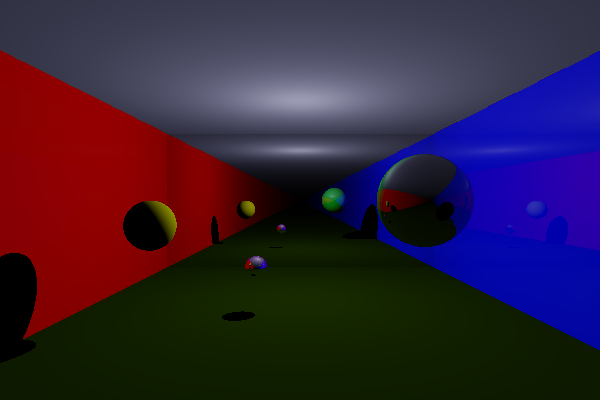
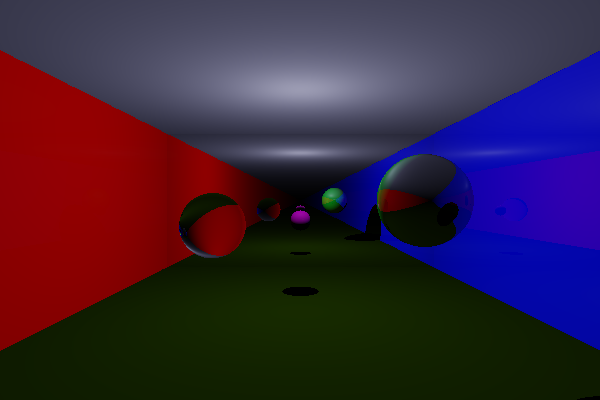
Add refraction
...in a hacky way. Without attenuation or total internal reflection or Fresnel equations

diff --git a/src/smoke_and_mirrors.cpp b/src/smoke_and_mirrors.cpp
@@ -19,7 +19,7 @@ int main() {
 
 	auto mainBegin = std::chrono::system_clock::now();
 
-	int maxNumberOfRays = 4;
+	int maxNumberOfRays = 7;
 	const int resolution = 200;
 	const int aspectRatioWidth = 3;
 	const int aspectRatioHeight = 2;
@@ -55,7 +55,7 @@ int main() {
 	Plane leftRedWall = Plane(Vector3(1, 0, 0), Vector3(-10, 0, 0), { 0.7f, 0.0f, 0.0f }, {0.01f, 0.01f, 0.01f});
 	//Plane leftMirrorWall = Plane(Vector3(1, 0, 0), Vector3(-10, 0, 0), { 0.0f, 0.0f, 0.0f }, { 0.4f, 0.4f, 0.4f }, true);
 
-	Plane backMirrorWall = Plane(Vector3(0, 0, 1), Vector3(1, 0, -30), { 0.0f, 0.0f, 0 }, { 0.8f, 0.8f, 0.8f }, true);
+	Plane backMirrorWall = Plane(Vector3(0, 0, 1), Vector3(1, 0, -30), { 0.0f, 0.0f, 0 }, { 0.9f, 0.9f, 0.9f }, true);
 
 	Plane backdarkGreenWall = Plane(Vector3(0, 0, 1), Vector3(1, 0, -30), { 0.05f, 0.1f, 0 }, {0, 0, 0});
 	Plane rightBlueWall = Plane(Vector3(-1, 0, 0), Vector3(10, 0, 0), { 0, 0, 0.8f }, {0.2f, 0.2f, 0.2f});
@@ -64,17 +64,17 @@ int main() {
 	Plane greenFloor = Plane(Vector3(0, 1, 0), Vector3(0, -5, 0), { 0.05f, 0.1f, 0.0f }, { 0, 0, 0 });
 
 	//Spheres
-	Sphere yellowSphere = Sphere(1, Vector3(-6, -1, -16), { 0.7f, 0.7f, 0 }, { 0.0f, 0.0f, 0.0f });
+	Sphere glassSphere = Sphere(1.3, Vector3(-3.5, -1, -16), { 0.0f, 0.0f, 0 }, { 0.0f, 0.0f, 0.0f }, {0.8f, 0.8f, 0.8f}, 1.3f);
 	Sphere lightGreenSphere = Sphere(1.5, Vector3(4, 0, -13), { 0, 0.6f, 0.04f }, { 0.4f, 0.4f, 0.4f });
-	Sphere pinkSphere = Sphere(0.5, Vector3(-2, -3, -18), { 0.18f, 0.0f, 0.2f }, {0.8f, 0.8f, 0.8f});
+	Sphere pinkSphere = Sphere(0.5, Vector3(0, -1, -20), { 0.78f, 0.0f, 0.6f }, {0.03f, 0.03f, 0.03f});
 
-	Surface* objects[] = { &leftRedWall, &backMirrorWall, &rightBlueWall, &greenFloor, &greyCeiling, &yellowSphere,  &lightGreenSphere, &pinkSphere };
+	Surface* objects[] = { &leftRedWall, &backMirrorWall, &rightBlueWall, &greenFloor, &greyCeiling, &glassSphere,  &lightGreenSphere, &pinkSphere };
 	//Surface* objects[] = { &backMirrorWall, &leftRedWall,&greyCeiling, &rightBlueWall, &greenFloor };
 	const size_t numberOfObjects = std::size(objects);
 
 	//Lights
 	//DirectionalLight directionalLight = DirectionalLight({1, 1, 1}, Vector3(10, -1, 0));
-	PointLight ceilingLight = PointLight({1.0f, 1.0f, 1.5f}, 2.0f, Vector3(0, 3, -20));
+	PointLight ceilingLight = PointLight({1.0f, 1.0f, 1.5f}, 2.0f, Vector3(0, 3, -18));
 	PointLight floorLight = PointLight({1.0f, 1.0f, 1.0f}, 0.8f, Vector3(0, -3, -10));
 
 	PointLight* PointLights[] = { &ceilingLight };

diff --git a/src/raytrace.cpp b/src/raytrace.cpp
@@ -7,15 +7,33 @@ Colour raytrace(Ray ray, int* maxRayDepth, Scene* scene, Colour totalLight, Colo
 	if (numberOfRays > *maxRayDepth) {
 		return totalLight;
 	} else {
-		intersectionInformation tracedPath = trace(ray, 0.010f, INFINITY, scene);
+		intersectionInformation tracedPath = trace(ray, 0.001f, INFINITY, scene);
 		if (!tracedPath.firstIntersection.intersected) {
 			return totalLight;
 		} else {
 			ColourCoefficients specularCoefficient = totalSpecularCoefficients * tracedPath.surfaceHit->getSpecularReflectance();
-			Colour addLight = shade(tracedPath, ray, scene) * totalSpecularCoefficients;
+			Colour diffuseLight = shade(tracedPath, ray, scene);
+			Colour addLight = diffuseLight * totalSpecularCoefficients;
 			Vector3 normal = tracedPath.normal;
 			Vector3 nextRayDirection = ray.direction - 2 * dot(ray.direction, normal) * normal;
 			Ray nextRay = Ray(tracedPath.firstIntersectionPoint, nextRayDirection);
+			if (tracedPath.surfaceHit->isTranslucent()) {
+				float n2 = tracedPath.surfaceHit->getRefractionIndex();
+				float relativeRefractionIndex = 1 / n2;
+				Vector3 incidentRayDirection = normalise(ray.direction);
+				if (dot(incidentRayDirection, normal) > 0) {
+					normal = - normal;
+					relativeRefractionIndex = 1 / relativeRefractionIndex;
+				}
+				float discriminant = sqrt(1 - (relativeRefractionIndex) * (relativeRefractionIndex) * (1 - pow(dot(normal, incidentRayDirection), 2)));
+				if (discriminant > 0) {
+					Vector3 directionOfRefractedRay = relativeRefractionIndex * (incidentRayDirection - normal * dot(incidentRayDirection, normal)) - normal * discriminant;
+					Ray refractionRay = Ray(tracedPath.firstIntersectionPoint, directionOfRefractedRay);
+					ColourCoefficients transmittance = totalSpecularCoefficients * tracedPath.surfaceHit->getTransmittance();
+					Colour transmittedLight = totalLight * transmittance;
+					addLight = addLight + raytrace(refractionRay, maxRayDepth, scene, transmittedLight, transmittance, numberOfRays + 1) ;
+				} //else addLight = addLight + diffuseLight * tracedPath.surfaceHit->getTransmittance(); //TODO Total refraction
+			}
 			return raytrace(nextRay, maxRayDepth, scene, totalLight + addLight, specularCoefficient, numberOfRays + 1);
 		}
 	}

diff --git a/src/math/sphere.cpp b/src/math/sphere.cpp
@@ -7,6 +7,8 @@ Sphere::Sphere(float radius, Vector3 centre, ColourCoefficients diffuseCoefficie
 Sphere::Sphere(float radius, Vector3 centre, ColourCoefficients diffuseCoefficients, ColourCoefficients specularColourCoefficients, bool conductor)
 	: radius(radius), centre(centre), diffuseReflectionCoefficients(diffuseCoefficients), specularReflectionCoefficients{ specularColourCoefficients }, conductor(conductor) {};
 
+Sphere::Sphere(float radius, Vector3 centre, ColourCoefficients diffuseCoefficients, ColourCoefficients specularColourCoefficients, ColourCoefficients transmittanceCoefficients, float refractionIndex)
+	: radius(radius), centre(centre), diffuseReflectionCoefficients(diffuseCoefficients), specularReflectionCoefficients{ specularColourCoefficients }, transmittanceCoefficients{ transmittanceCoefficients }, refractionIndex{ refractionIndex } {};
 
 ColourCoefficients Sphere::getDiffuseReflectance() {
 	return diffuseReflectionCoefficients;
@@ -16,12 +18,20 @@ ColourCoefficients Sphere::getSpecularReflectance() {
 	return specularReflectionCoefficients;
 }
 
+ColourCoefficients Sphere::getTransmittance() {
+	return transmittanceCoefficients;
+}
+
 bool Sphere::isConductor() {
 	return conductor;
 }
 
 float Sphere::getRefractionIndex() {
 	return refractionIndex;
+}
+
+bool Sphere::isTranslucent() {
+	return (this->getRefractionIndex() == 0) ? false : true;
 }
 
 rayIntersection Sphere::rayHit(Ray ray) {

diff --git a/src/math/sphere.h b/src/math/sphere.h
@@ -9,17 +9,20 @@ public:
 	Vector3 centre;
 	ColourCoefficients diffuseReflectionCoefficients;
 	ColourCoefficients specularReflectionCoefficients;
+	ColourCoefficients transmittanceCoefficients;
 	bool conductor = false;
-	float refractionIndex = 1;
+	float refractionIndex = 0;
 
 	Sphere();
 	Sphere(float radius, Vector3 centre, ColourCoefficients diffuseCoefficients, ColourCoefficients specularCoefficients);
 	Sphere(float radius, Vector3 centre, ColourCoefficients diffuseCoefficients, ColourCoefficients specularCoefficients, bool isConductor);
-
+	Sphere(float radius, Vector3 centre, ColourCoefficients diffuseCoefficients, ColourCoefficients specularCoefficients, ColourCoefficients transmittanceCoefficients, float refractionIndex);
 	rayIntersection rayHit(Ray ray) override;
 	Vector3 surfaceNormal(Vector3 pointOnSurface) override;
 	ColourCoefficients getDiffuseReflectance() override;
 	ColourCoefficients getSpecularReflectance() override;
+	ColourCoefficients getTransmittance() override;
 	bool isConductor() override;
 	float getRefractionIndex() override;
+	bool isTranslucent() override;
 };

diff --git a/src/math/plane.h b/src/math/plane.h
@@ -12,8 +12,10 @@ public:
 	//Colourwise sum should be smaller than 0
 	ColourCoefficients diffuseReflectionCoefficients;
 	ColourCoefficients specularReflectionCoefficients; // Should only change the colour if it is a metallic surface
+	ColourCoefficients transmittanceCoefficients;
 	bool conductor = false;
-	float refractionIndex = 1;
+	//Zero means opaque, for now
+	float refractionIndex = 0;
 
 	Plane();
 	Plane(Vector3 normal, Vector3 point, ColourCoefficients diffuseCoefficients, ColourCoefficients specularCoefficients);
@@ -23,6 +25,8 @@ public:
 	Vector3 surfaceNormal(Vector3 pointOnSurface) override;
 	ColourCoefficients getDiffuseReflectance() override;
 	ColourCoefficients getSpecularReflectance() override;
+	ColourCoefficients getTransmittance() override;
 	bool isConductor() override;
 	float getRefractionIndex() override;
+	bool isTranslucent() override;
 };

diff --git a/src/shadowTrace.cpp b/src/shadowTrace.cpp
@@ -3,7 +3,7 @@
 bool shadowTrace(Ray ray, float tMin, float tMax, Scene* scene) {
 	for (size_t i = 0; i < scene->numberOfObjects; i++) {
 		const rayIntersection rayIntersection = scene->objects[i]->rayHit(ray);
-		if (rayIntersection.intersected && rayIntersection.t > tMin && rayIntersection.t < tMax) {
+		if (rayIntersection.intersected && rayIntersection.t > tMin && rayIntersection.t < tMax && !scene->objects[i]->isTranslucent()) { //TODO Translucent objects actually attenuate light
 			return true;
 		}
 	}

diff --git a/src/math/plane.cpp b/src/math/plane.cpp
@@ -17,12 +17,20 @@ ColourCoefficients Plane::getSpecularReflectance() {
 	return specularReflectionCoefficients;
 }
 
+ColourCoefficients Plane::getTransmittance() {
+	return transmittanceCoefficients;
+}
+
 bool Plane::isConductor() {
 	return conductor;
 }
 
 float Plane::getRefractionIndex() {
 	return refractionIndex;
+}
+
+bool Plane::isTranslucent() {
+	return (getRefractionIndex() == 0) ? false : true;
 }
 
 rayIntersection Plane::rayHit(Ray ray) {

diff --git a/src/physics/surface.h b/src/physics/surface.h
@@ -7,6 +7,8 @@ public:
 	virtual Vector3 surfaceNormal(Vector3 pointOnSurface) = 0;
 	virtual ColourCoefficients getDiffuseReflectance() = 0;
 	virtual ColourCoefficients getSpecularReflectance() = 0;
+	virtual ColourCoefficients getTransmittance() = 0;
 	virtual bool isConductor() = 0;
+	virtual bool isTranslucent() = 0;
 	virtual float getRefractionIndex() = 0;
 };

diff --git a/src/raytrace.h b/src/raytrace.h
@@ -4,4 +4,5 @@
 #include "physics/shade.h"
 #include "utility/utility.h"
 
+//TODO implement tracking of refraction indices
 Colour raytrace(Ray ray, int* maxRayDepth, Scene* scene, Colour totalLight = Colour(0, 0, 0), ColourCoefficients totalSpecularCoefficients = {1, 1, 1}, int numberOfRays = 1);
